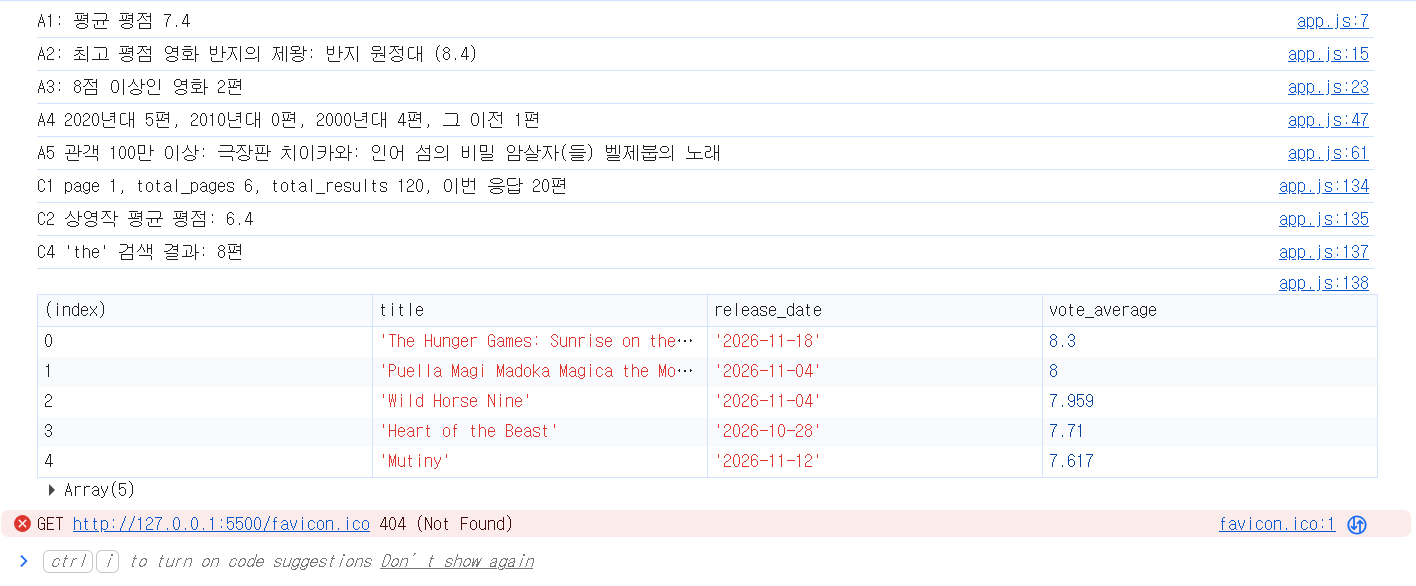
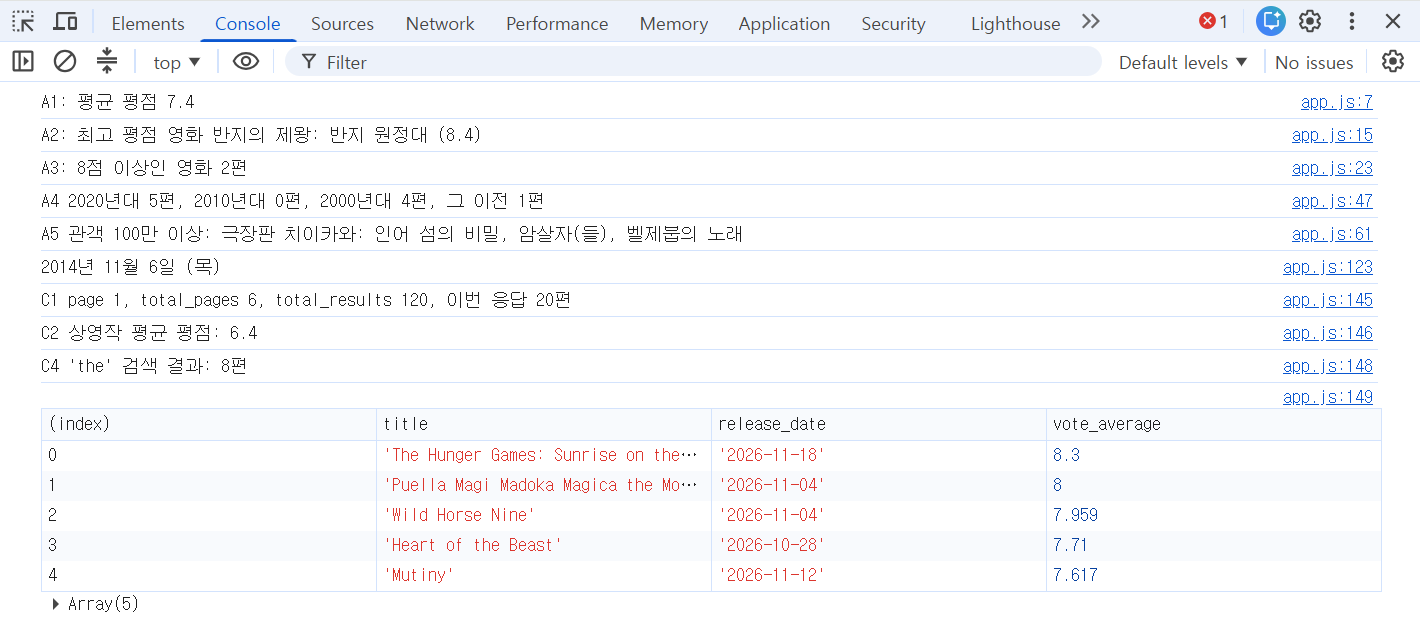
다섯 번째 커밋

diff --git a/app.js b/app.js
@@ -50,7 +50,7 @@ let bigA = "";
 for (let i = 0; i < audiences.length; i++) {
   if (audiences[i] >= 1000000) {
     if (bigA !== "") {
-      bigA += " ";
+      bigA += ", ";
     }
     bigA += titles[i];
   }
